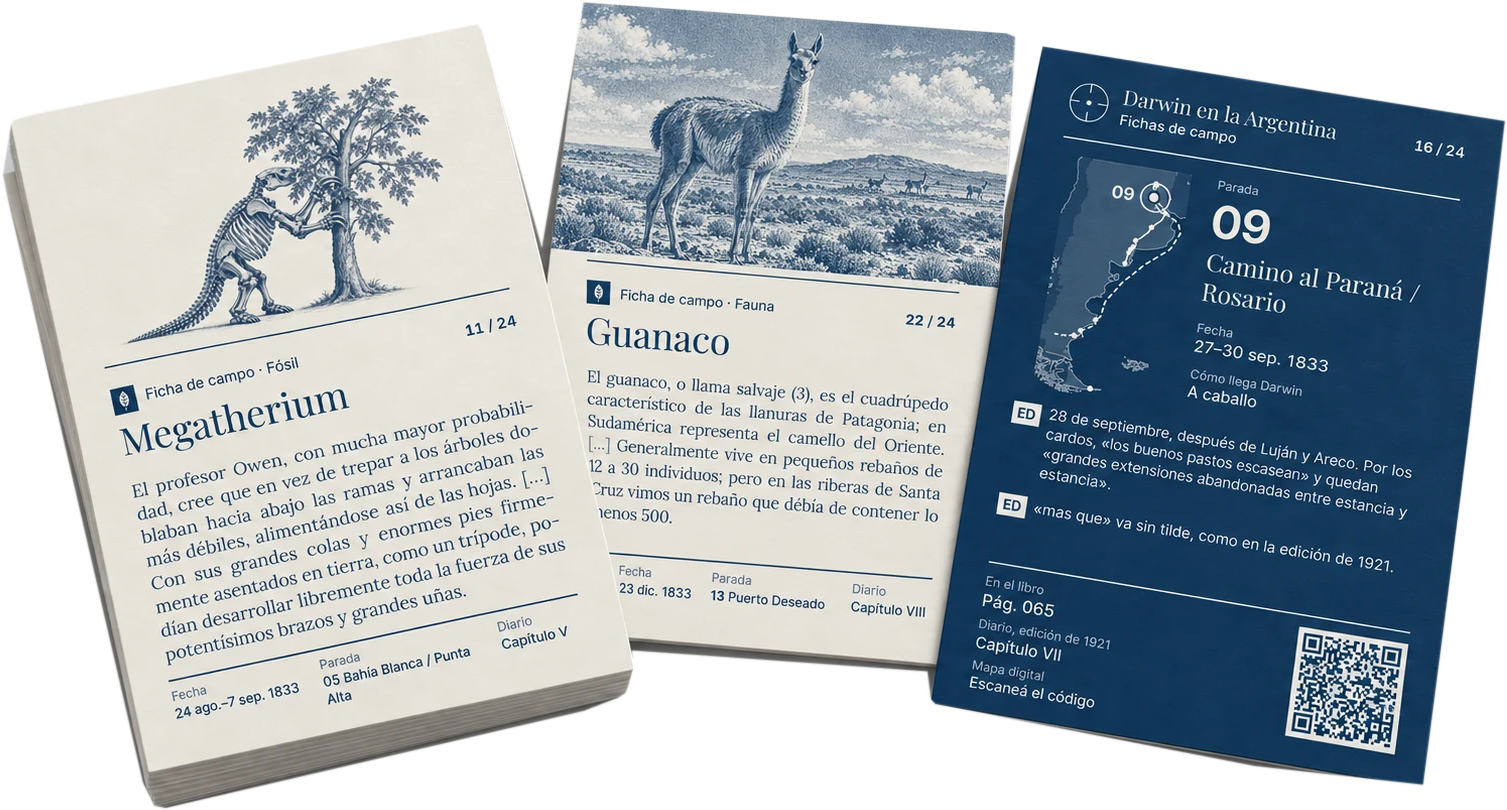
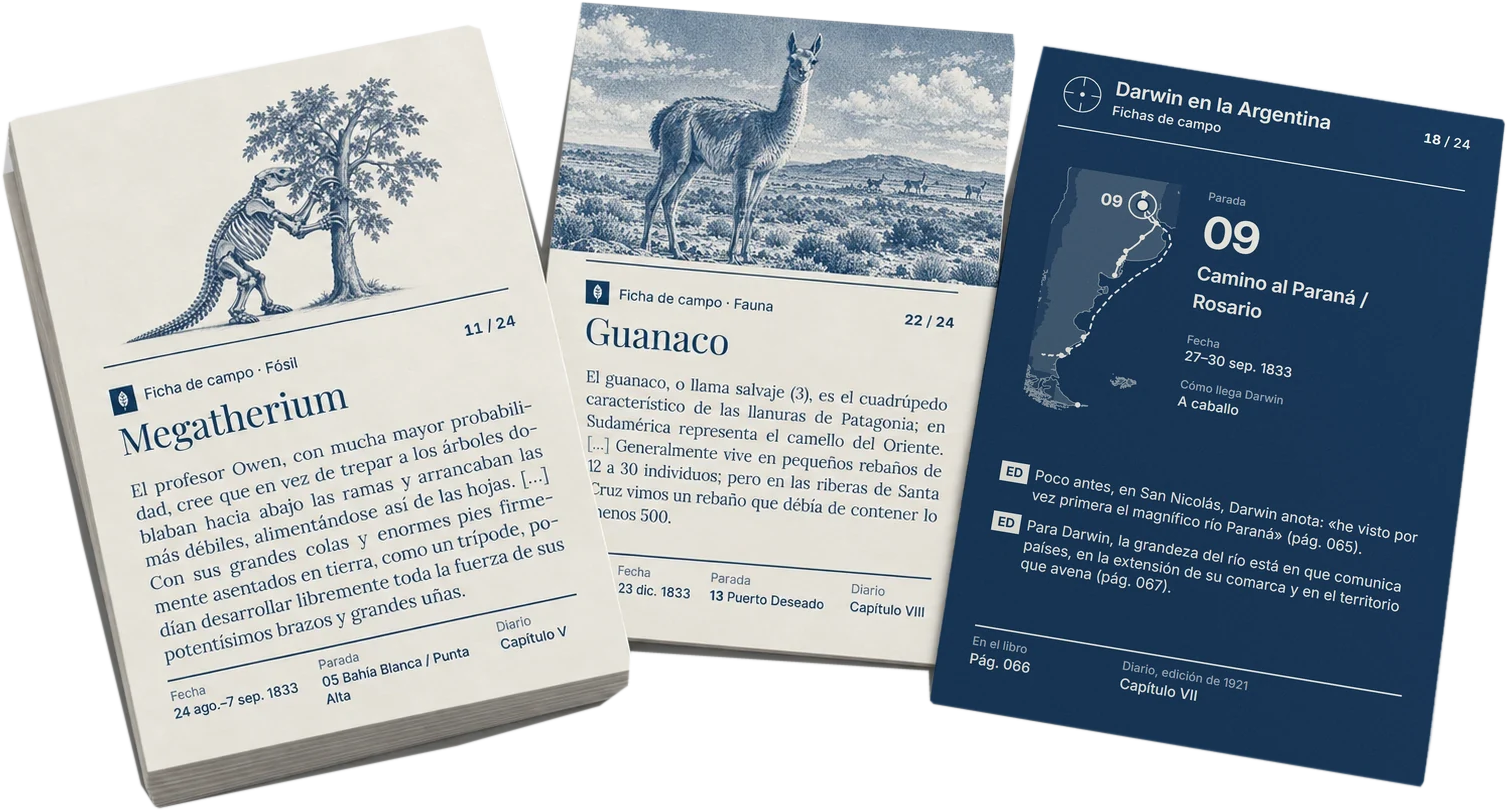
005: mockups nuevos del libro y de las fichas (los mismos de Acerca de en la web)

diff --git a/tools/recorte.py b/tools/recorte.py
@@ -1,5 +1,6 @@
 # Recorta los mockups fotográficos de la página 005 de su fondo gris (fondo y sombra → transparente).
 # Uso: py tools/recorte.py   (originales en assets/images/originales/mockup-*.webp)
+# 11 nov. 2026: libro y fichas pasan a los mockups nuevos de la web (Acerca de): mockup-libro-2026.webp y 005-mockup-fichas-2026.webp
 import os
 import numpy as np
 from PIL import Image, ImageDraw, ImageFilter
@@ -24,15 +25,26 @@ guardar(im, mask.resize(im.size, Image.LANCZOS), '005-mockup-web.png')
 
 # Libro: el fondo y la sombra son grises neutros; papel y tapa tienen color → máscara por saturación,
 # extendida hacia abajo para incluir el canto de las hojas (gris, igual que la sombra)
-im = Image.open(os.path.join(IMG, 'originales', 'mockup-libro.webp')).convert('RGB')
+im = Image.open(os.path.join(IMG, 'originales', 'mockup-libro-2026.webp')).convert('RGB')
 a = np.asarray(im.filter(ImageFilter.GaussianBlur(1.2))).astype(int)
-obj = (a.max(2) - a.min(2)) > 6
-obj = nd.binary_fill_holes(nd.binary_opening(obj, iterations=2))
+# mockup 2026: papel y canto cálidos (R > B), tapa azul (B > R); fondo y sombra grises exactos
+rb = a[..., 0] - a[..., 2]
+obj = (rb >= 4) | (rb <= -8)
+obj = nd.binary_fill_holes(nd.binary_closing(nd.binary_opening(obj, iterations=2), iterations=4))
 lab, n = nd.label(obj)
 obj = lab == (np.argmax(nd.sum(obj, lab, range(1, n + 1))) + 1)
-obj = nd.binary_dilation(obj, structure=np.ones((33, 1)), origin=(-16, 0)) | obj
-obj = nd.binary_fill_holes(obj)
-obj = nd.gaussian_filter(obj.astype(float), 3) > 0.5  # borde liso
+# borde superior: por columna, del color (alisado con mediana); laterales y canto inferior, medidos a mano
+# sobre el original (el canto y la sombra son grises parecidos y la máscara de color no los separa)
+xs = np.arange(160, 2002)
+top = np.array([obj[:, x].argmax() for x in xs]).astype(float)
+top = nd.uniform_filter1d(nd.median_filter(top, 61, mode='nearest'), 9, mode='nearest')
+abajo = [(2084, 1062), (2077, 1080), (1850, 1082), (1600, 1078), (1400, 1071), (1240, 1062), (1150, 1045),
+         (1090, 1022), (1070, 1012), (1048, 1014), (1000, 1027), (850, 1063), (600, 1076), (320, 1082), (100, 1082), (83, 1064)]
+K = 4
+mask = Image.new('L', (im.width * K, im.height * K), 0)
+pts = [(158, 370)] + list(zip(xs, top)) + [(2003, 352)] + abajo
+ImageDraw.Draw(mask).polygon([(x * K, y * K) for x, y in pts], fill=255)
+obj = np.asarray(mask.resize(im.size, Image.LANCZOS)) / 255
 guardar(im, Image.fromarray((obj * 255).astype('uint8')), '005-mockup-libro.png')
 
 # Fichas: son tres rectángulos en perspectiva. De cada una se toma la envolvente convexa de sus píxeles con color
@@ -40,7 +52,7 @@ guardar(im, Image.fromarray((obj * 255).astype('uint8')), '005-mockup-libro.png'
 # zona aproximada marcada a mano. Así los bordes salen rectos y sin halo de sombra.
 from shapely.geometry import Polygon, MultiPoint
 from shapely.ops import unary_union
-im = Image.open(os.path.join(IMG, 'originales', '005-mockup-fichas.webp')).convert('RGB')
+im = Image.open(os.path.join(IMG, 'originales', '005-mockup-fichas-2026.webp')).convert('RGB')
 a = np.asarray(im.filter(ImageFilter.GaussianBlur(1.2))).astype(int)
 rb = a[..., 0] - a[..., 2]
 col = nd.binary_opening((rb >= 5) | (rb <= -14), iterations=2)

diff --git a/BOOK_PROGRESS.md b/BOOK_PROGRESS.md
@@ -624,3 +624,4 @@ Se reemplazaron los 39 recuadros de imagen pendiente por ilustraciones generadas
 - 4 nov. 2026 · 025: la línea temporal gana alto (más aire entre fecha, corchete, línea, números y nombres; guía fina de cada parada a su número); arranca un renglón antes y la nota ED baja al último renglón. Página re-aprobada.
 - 4 nov. 2026 · 024: la nota D baja un renglón, al pie del blanco, justo sobre la foto.
 - 11 nov. 2026 · contratapa: la cita sube un renglón; el grabado del megaterio crece (renglones 9–21) y apoya en la base del último renglón de la presentación.
+- 11 nov. 2026 · 005: mockups de libro y fichas reemplazados por los nuevos de la web (Acerca de); originales en assets/images/originales (mockup-libro-2026.webp, 005-mockup-fichas-2026.webp), recortados con tools/recorte.py.
